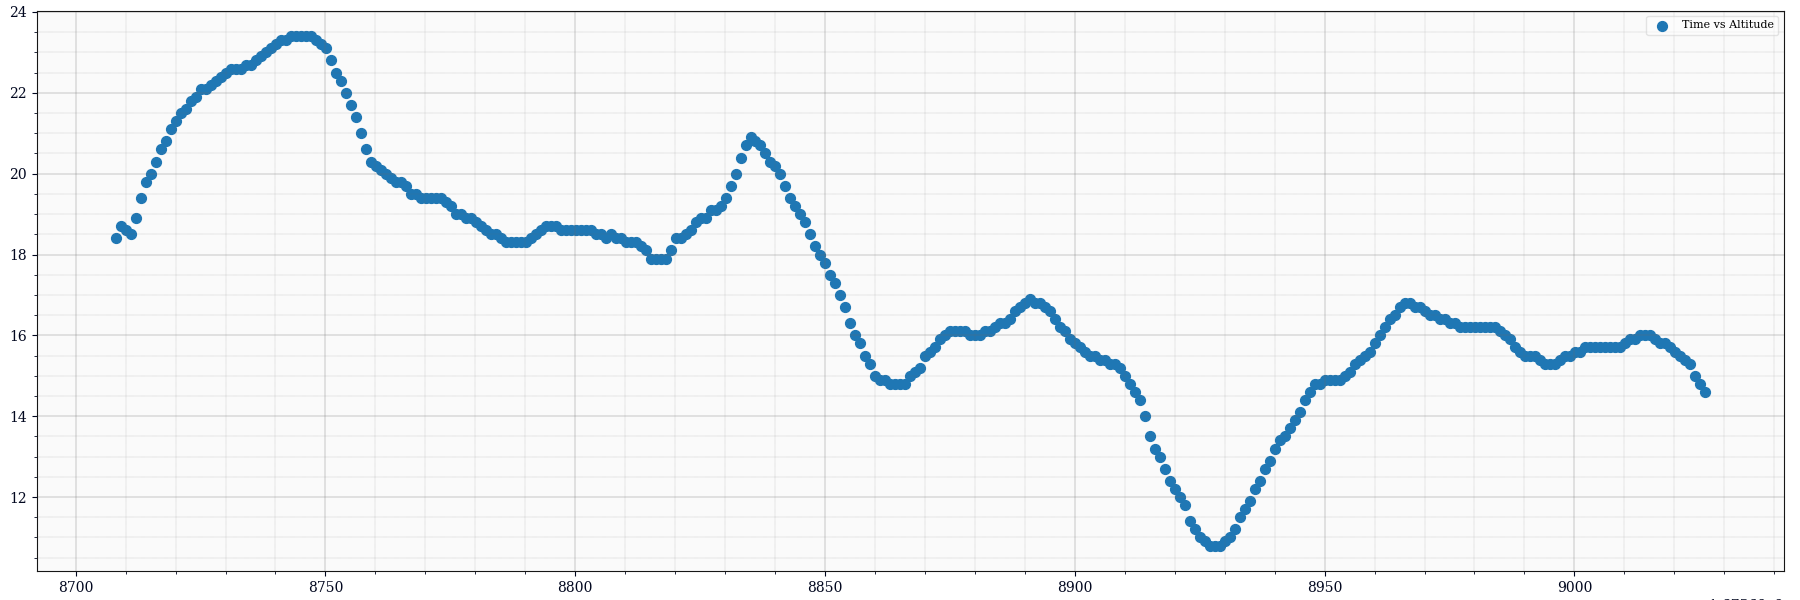
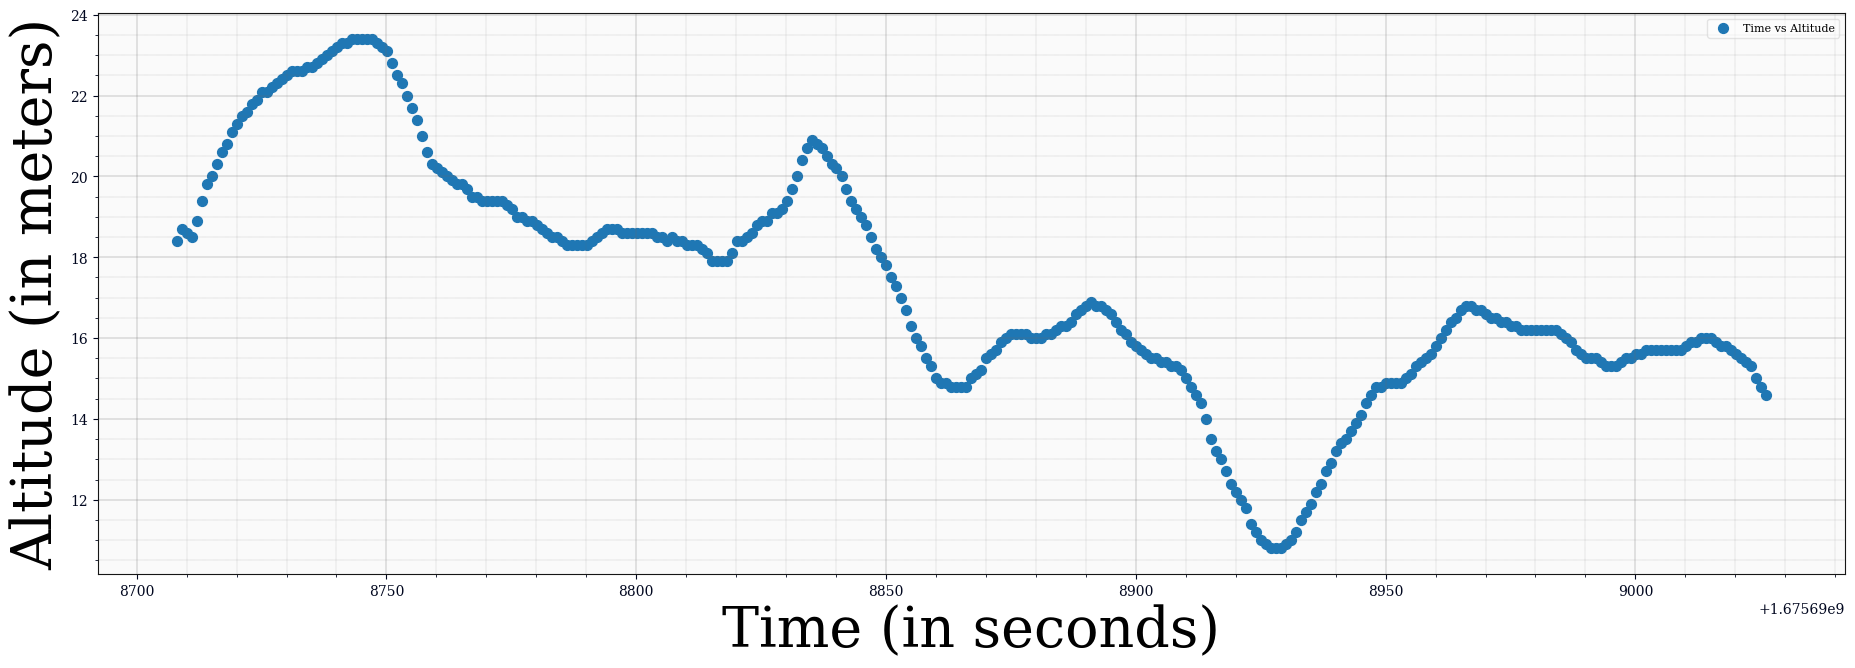
pre-final commit

diff --git a/LAB1/src/Analysis/analysis.py b/LAB1/src/Analysis/analysis.py
@@ -6,9 +6,11 @@ import sys
 stri = "Data/occluded_stationary.bag"
 raw =  bagpy.bagreader(stri)
 raw.topic_table
-data = raw.message_by_topic('/gps')
+data = raw.message_by_topic('/gps/gps')
 print(data)
 data_in_csv = pd.read_csv(data)
+x = data_in_csv['UTM_easting']
+y = data_in_csv['UTM_northing']
 data_in_csv['UTM_easting'] = data_in_csv['UTM_easting'] - data_in_csv['UTM_easting'].min()
 data_in_csv['UTM_northing'] = data_in_csv['UTM_northing'] - data_in_csv['UTM_northing'].min()
 print(data_in_csv[['UTM_easting', 'UTM_northing']])
@@ -18,21 +20,69 @@ data_in_csv[['UTM_easting','UTM_northing']].plot()
 fig, ax = bagpy.create_fig(1)
 for axis in ax:
     axis.legend()
-    axis.set_xlabel('UTM_easting', fontsize=40)
-    axis.set_ylabel('UTM_northing', fontsize=40)
+    axis.set_xlabel('UTM_easting (meters)', fontsize=40)
+    axis.set_ylabel('UTM_northing (meters)', fontsize=40)
 ax[0].scatter(x = 'UTM_easting', y = 'UTM_northing', data = data_in_csv, s= 50, label = 'UTM_easting VS UTM_northing')
 
 
 fig.savefig("/root/catkin_ws/src/" + stri.split('.')[0] + ".png", bbox_inches='tight')
 plt.show()
 
+# close figure to proceed
 fig1, ax1 = bagpy.create_fig(1)
 ax1[0].scatter(x = 'Time', y = 'Altitude', data = data_in_csv, s = 50, label = "Time vs Altitude")
 for axis in ax1:
     axis.legend()
-    axis.set_xlabel('Time', fontsize=40)
-    axis.set_ylabel('Altitude', fontsize=40)
+    axis.set_xlabel('Time (in seconds)', fontsize=40)
+    axis.set_ylabel('Altitude (in meters)', fontsize=40)
 
 
-fig1.savefig("/root/catkin_ws/src/" + stri.split('.')[0] + "TvsA" + ".png")
+fig1.savefig("/root/catkin_ws/src/" + stri.split('.')[0] + "TvsA" + ".png", bbox_inches = 'tight')
 plt.show()
+
+#clode figure to proceed
+
+a, b = np.polyfit(x,y,1)
+# plt.plot(x, a*x+b) 
+# plt.show()
+# fig2, ax2 = bagpy.create_fig(1)
+# ax2[0].bar(x-a, y-b)
+# plt.show()
+open_cord = [327742.06,4689336.16] # exact location
+occluded_cord = [327965.56,4689485.00] # exact location
+
+# uncomment if occluded is taken
+error_easting = [item - occluded_cord[0] for item in x]
+error_northing = [item - occluded_cord[1] for item in y]
+
+#uncomment if open is taken
+# error_easting = [item - open_cord[0] for item in x]
+# error_northing = [item - open_cord[1] for item in y]
+
+
+fig3,ax3 = plt.subplots(2)
+ax3[0].hist(error_easting, bins = 25)
+ax3[0].set_title('Easting error(m)')
+ax3[0].set_xlabel('Error in Easting(m)')
+ax3[0].set_ylabel('Frequency of Error(m)')
+ax3[1].hist(error_northing, bins = 25)
+ax3[1].set_title('Northing error')
+ax3[1].set_xlabel('Error in Northing(m)')
+ax3[1].set_ylabel('Frequency of Error(m)')
+plt.show()
+
+fig3.savefig("/root/catkin_ws/src/" + stri.split('.')[0] + "error_hist" + ".png", bbox_inches = 'tight')
+
+mean_northing = np.mean(error_northing)
+mean_easting = np.mean(error_easting)
+median_northing = np.median(error_northing)
+median_easting = np.median(error_easting)
+std_northing = np.std(error_northing)
+std_easting = np.std(error_easting)
+
+print(f"mean_easting:{mean_easting}")
+print(f"mean_northing:{mean_northing}")
+print(f"median_easting:{median_easting}")
+print(f"median_northing:{median_northing}")
+print(f"std_northing:{std_easting}")
+print(f"std_easting:{std_northing}")

diff --git a/LAB1/src/gps_driver/python/driver.py b/LAB1/src/gps_driver/python/driver.py
@@ -58,7 +58,7 @@ def main():
             msg = gps_msg()
             msg.header.stamp.secs = int(utc_sec)
             msg.header.stamp.nsecs = int(utc_nsecs)
-            msg.header.frame_id = "GPS1_Frame"
+            msg.header.frame_id = "GPS1_FRAME"
             msg.HDOP = hdop
             msg.Latitude = lat_ddmm
             msg.Longitude = long_ddmm
